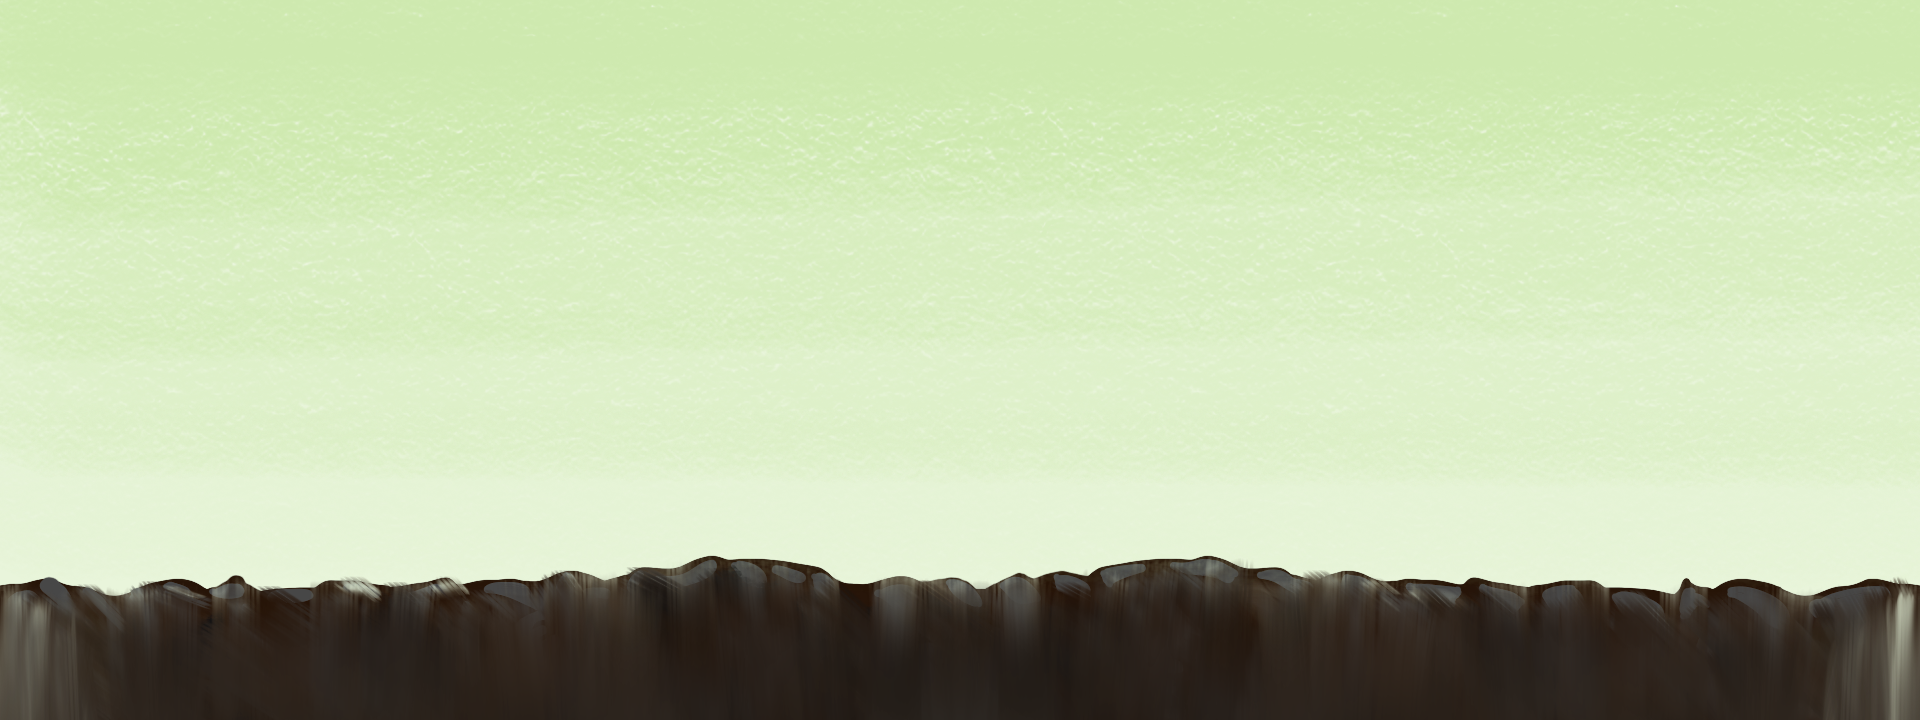
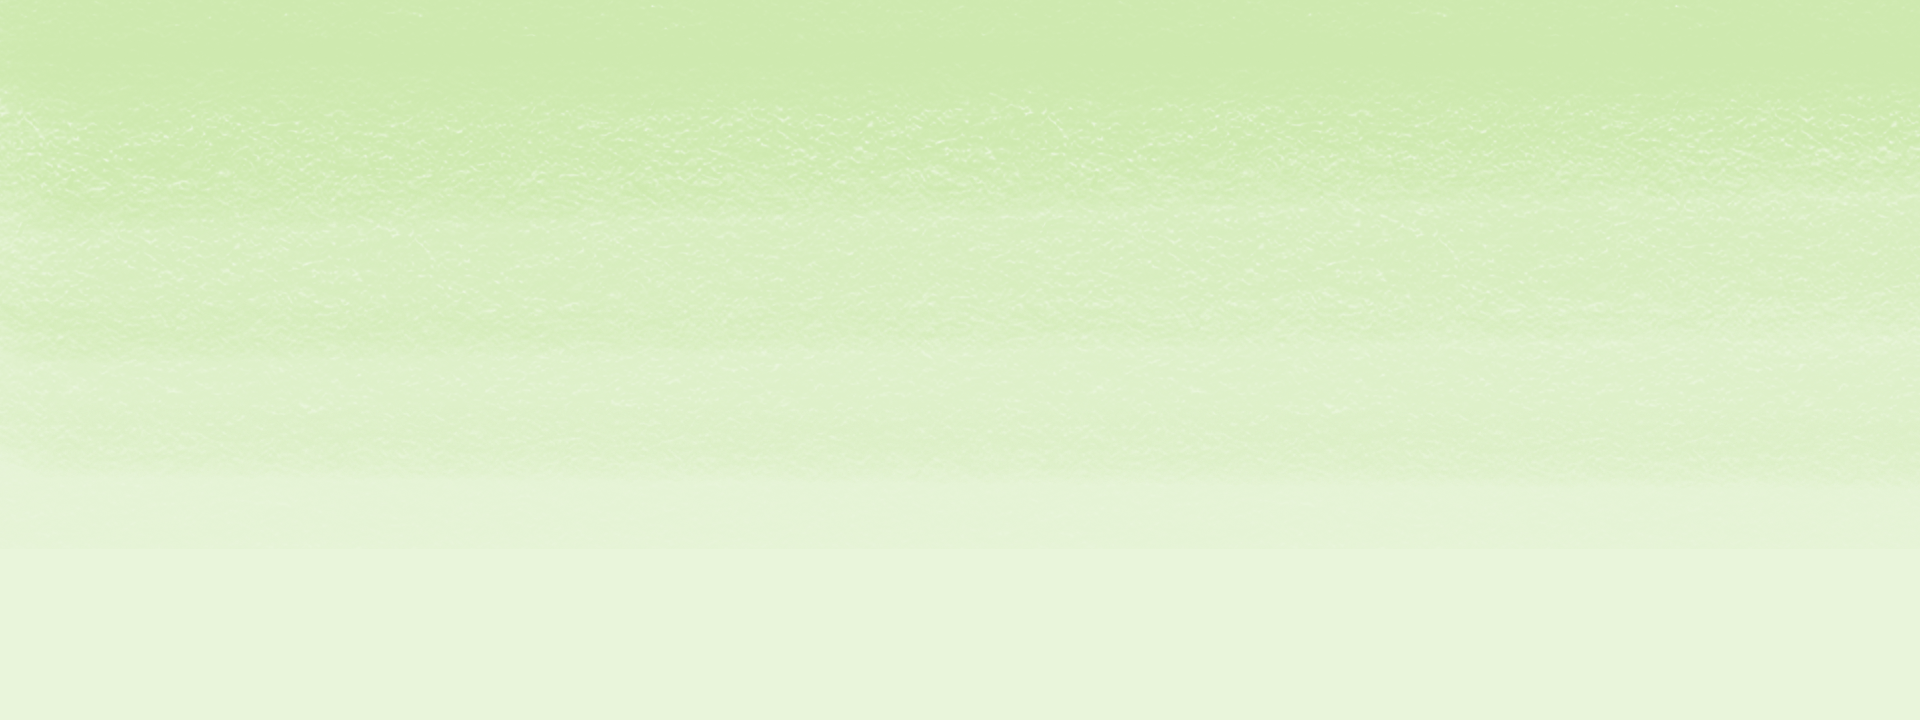
new sprite

Changed region(s): [[0.0, 0.7639, 1.0, 1.0]]

diff --git a/client/lib/game/DinoGame.js b/client/lib/game/DinoGame.js
@@ -41,9 +41,9 @@ export default class DinoGame extends GameRunner {
       cloudSpawnRate: 200, // fpa
       cloudSpeed: 2, // ppf
       dinoGravity: 2, // ppf
-      dinoGroundOffset: 160, // px
+      dinoGroundOffset: -40, // px
       dinoLegsRate: 6, // fpa
-      dinoLift: 35, // ppf
+      dinoLift: 34, // ppf
       bulletSpawnRate: 20, // fpa
       bulletSpeed: 10, // ppf
       itemSpawnRate: 200, // fpa
@@ -129,9 +129,9 @@ export default class DinoGame extends GameRunner {
     dino.lift = settings.dinoLift;
     dino.gravity = settings.dinoGravity;
     dino.x = 25;
-    dino.baseY = this.height - settings.dinoGroundOffset;
     this.state.dino = dino;
-    // this.state.groundY = this.height - sprites.ground.h / 2;
+    this.state.groundY = this.height - Math.min(sprites.ground.h / 2, this.height*0.2);
+    dino.baseY = this.state.groundY - settings.dinoGroundOffset;
   }
 
   onFrame() {
@@ -180,23 +180,16 @@ export default class DinoGame extends GameRunner {
       state.bullets.forEach((bullet) => {
         if (bullet.hits([state.obstacles[0]])) {
           //to-do
-          switch (state.obstacles[0].sprite) {
-            case "obstacle": {
-              state.obstacles[0].sprite = "obstacleHit";
-            }
+          state.obstacles[0].sprite = `${state.obstacles[0].sprite}Hit`;
+          // switch (state.obstacles[0].sprite) {
+          //   case "obstacleCode": {
+          //     state.obstacles[0].sprite = "obstacleCodeHit";
+          //   }
 
-            case "obstacleDouble": {
-              state.obstacles[0].sprite = "obstacleDoubleHit";
-            }
-
-            case "obstacleDoubleB": {
-              state.obstacles[0].sprite = "obstacleDoubleBHit";
-            }
-
-            case "obstacleTriple": {
-              state.obstacles[0].sprite = "obstacleTripleHit";
-            }
-          }
+          //   case "obstacleGate": {
+          //     state.obstacles[0].sprite = "obstacleGateHit";
+          //   }
+          // }
           setTimeout(() => {
             state.obstacles.shift();
           }, 120);
@@ -207,7 +200,8 @@ export default class DinoGame extends GameRunner {
         }
         if (bullet.hits([state.birds[0]])) {
           //to-do
-          state.obstacles[0].sprite = "birdHit";
+          state.birds[0].sprite = `${state.birds[0].sprite}Hit`;
+          // state.obstacles[0].sprite = "birdHit";
           //to-do
 
           setTimeout(() => {
@@ -419,24 +413,25 @@ export default class DinoGame extends GameRunner {
   }
 
   drawBackground() {
-    this.canvasCtx.fillStyle = "#f7f7f7";
-    this.canvasCtx.fillRect(0, 0, this.width, this.height);
+    // this.canvasCtx.fillStyle = "#f7f7f7";
+    // this.canvasCtx.fillRect(0, 0, this.width, this.height);
+    this.canvasCtx.drawImage(this.backgroundImage, 0, 0, this.width, this.height);
   }
 
   drawGround() {
     const { state } = this;
     const { bgSpeed } = state.settings;
-    // const groundImgWidth = sprites.ground.w / 2;
-    const groundImgWidth = 1920;
+    const groundImgWidth = sprites.ground.w / 2;
+    // const groundImgWidth = 1920;
 
-    // this.paintSprite("ground", state.groundX, state.groundY);
-    this.canvasCtx.drawImage(this.backgroundImage, state.groundX, state.groundY, 1920, this.height);
+    this.paintSprite("ground", state.groundX, state.groundY);
+    // this.canvasCtx.drawImage(this.backgroundImage, state.groundX, state.groundY, 1920, this.height);
     state.groundX -= bgSpeed * state.speedRatio;
 
     // append second image until first is fully translated
     if (state.groundX <= -groundImgWidth + this.width) {
-      // this.paintSprite("ground", state.groundX + groundImgWidth, state.groundY);
-      this.canvasCtx.drawImage(this.backgroundImage, state.groundX + groundImgWidth, state.groundY, 1920, this.height);
+      this.paintSprite("ground", state.groundX + groundImgWidth, state.groundY);
+      // this.canvasCtx.drawImage(this.backgroundImage, state.groundX + groundImgWidth, state.groundY, 1920, this.height);
 
       if (state.groundX <= -groundImgWidth) {
         state.groundX = -bgSpeed * state.speedRatio;
@@ -452,7 +447,7 @@ export default class DinoGame extends GameRunner {
       const newCloud = new Cloud();
       newCloud.speed = settings.bgSpeed;
       newCloud.x = this.width;
-      newCloud.y = randInteger(20, 200);
+      newCloud.y = randInteger(sprites.cloud.h+10, this.state.dinoGroundOffset - sprites.cloud.h - sprites.dinoDuckLeftLeg.h);
       clouds.push(newCloud);
     }
     this.paintInstances(clouds);
@@ -520,12 +515,12 @@ export default class DinoGame extends GameRunner {
         const newItem = new Item();
         newItem.speed = settings.bgSpeed;
         newItem.x = this.width;
-        newItem.y = this.height - newItem.height - state.settings.dinoGroundOffset - 100 * randInteger(0, 2);
+        newItem.y = state.dino.baseY - newItem.height - 100 * randInteger(0, 2);
         if (spawnedObstacle) {
-          newItem.y = this.height - newItem.height - state.settings.dinoGroundOffset - 250;
+          newItem.y = state.dino.baseY - newItem.height - 250;
         }
         if (spawnedBird) {
-          newItem.y = this.height - newItem.height - state.settings.dinoGroundOffset;
+          newItem.y = state.dino.baseY - newItem.height ;
         }
         items.push(newItem);
       }
@@ -547,7 +542,7 @@ export default class DinoGame extends GameRunner {
         const newObstacles = new Obstacle(this.spriteImageData);
         newObstacles.speed = settings.bgSpeed;
         newObstacles.x = this.width;
-        newObstacles.y = this.height - newObstacles.height - state.settings.dinoGroundOffset;
+        newObstacles.y = state.dino.baseY - newObstacles.height;
         obstacles.push(newObstacles);
       }
     }
@@ -566,16 +561,13 @@ export default class DinoGame extends GameRunner {
         spawned = true;
         const newBird = new Bird(this.spriteImageData);
         newBird.speed = settings.birdSpeed;
-        newBird.wingsRate = settings.birdWingsRate;
         newBird.x = this.width;
         // ensure birds are always at least 5px higher than a ducking dino
         newBird.y =
-          this.height -
+          dino.baseY -
           Bird.maxBirdHeight -
-          Bird.wingSpriteYShift -
           5 -
-          sprites.dinoDuckLeftLeg.h / 2 -
-          settings.dinoGroundOffset;
+          sprites.dinoDuckLeftLeg.h / 2
         birds.push(newBird);
       }
     }
@@ -594,7 +586,7 @@ export default class DinoGame extends GameRunner {
       const newFood = new Food(this.spriteImageData);
       newFood.speed = settings.bgSpeed;
       newFood.x = this.width;
-      newFood.y = this.height - newFood.height - state.settings.dinoGroundOffset + this.foodHeightFunc(this.frameCount);
+      newFood.y = state.dino.baseY - newFood.height + this.foodHeightFunc(this.frameCount);
       foods.push(newFood);
     }
     this.paintInstances(foods);

diff --git a/client/index.html b/client/index.html
@@ -13,13 +13,13 @@
             margin: 0;
             padding: 0;
         }
-        
+
         html,
         body {
             width: 100%;
             height: 100%;
         }
-        
+
         body {
             align-items: center;
             background-color: #f7f7f7;
@@ -48,7 +48,8 @@
         <div id="home-page-title">EE見鍾情</div>
         <div id=""></div>
         <input class="home-page-input" id="name-input" type="text" maxlength="18" placeholder="輸入遊戲名稱" />
-        <input class="home-page-input" id="student-id-input" type="text" maxlength="9" oninput="this.value = this.value.toUpperCase()" placeholder="輸入學號（才可顯示於排行榜上）" />
+        <input class="home-page-input" id="student-id-input" type="text" maxlength="9"
+            oninput="this.value = this.value.toUpperCase()" placeholder="輸入學號（才可顯示於排行榜上）" />
         <button id="start-button">Game Start!</button>
         <button class="leaderboard-button">排行榜</button>
         <button class="instruction-button">?</button>
@@ -114,7 +115,8 @@
                 <div id="prompt-page-title" class="page-title">Congratulation</div>
             </div>
             <div id="prompt-page-main">您已經進入前10名, 填寫學號以儲存您的分數</div>
-            <input class="prompt-page-input" id="prompt-student-id-input" type="text" maxlength="9" oninput="this.value = this.value.toUpperCase()" placeholder="輸入學號" />
+            <input class="prompt-page-input" id="prompt-student-id-input" type="text" maxlength="9"
+                oninput="this.value = this.value.toUpperCase()" placeholder="輸入學號" />
             <button id="prompt-reject-button" class="prompt-page-button">確定不填寫學號</button>
             <button id="prompt-confirm-button" class="prompt-page-button">送出</button>
         </div>
@@ -166,7 +168,8 @@
                         <div class="right">
                             <p class="gadget">Guitar</p>
                             <p class="functionality">
-                                Function: Music note attacks! Dino turns into a professional guitarist, shooting musical notes to destroy all obstacles.
+                                Function: Music note attacks! Dino turns into a professional guitarist, shooting musical
+                                notes to destroy all obstacles.
                             </p>
                         </div>
                     </div>
@@ -177,7 +180,8 @@
                         <div class="right">
                             <p class="gadget">Dance</p>
                             <p class="functionality">
-                                Function: Dance causes ADRENALINE RUSH. Dino turn on the jets and receive a speed boost for n seconds.
+                                Function: Dance causes ADRENALINE RUSH. Dino turn on the jets and receive a speed boost
+                                for n seconds.
                             </p>
                         </div>
                     </div>
@@ -188,7 +192,8 @@
                         <div class="right">
                             <p class="gadget">Band</p>
                             <p class="functionality">
-                                Function: Dino becomes invincible for a certain period of time and destroy everything in its path. The speed will also be faster.
+                                Function: Dino becomes invincible for a certain period of time and destroy everything in
+                                its path. The speed will also be faster.
                             </p>
                         </div>
                     </div>
@@ -210,7 +215,8 @@
                         <div class="right">
                             <p class="gadget">Week</p>
                             <p class="functionality">
-                                Function: NTUEE Week is fun! Dino gets extra points, unlike NTUEE students asking professor for grades
+                                Function: NTUEE Week is fun! Dino gets extra points, unlike NTUEE students asking
+                                professor for grades
                             </p>
                         </div>
                     </div>
@@ -218,6 +224,14 @@
             </div>
         </div>
     </div>
+
+    <script>
+        screen.orientation.lock('landscape');
+        console.log('lock');
+        screen.orientation.addEventListener("change", () => {
+            console.log(screen.orientation.type);
+        });
+    </script>
 </body>
 
 </html>

diff --git a/client/lib/sprites.js b/client/lib/sprites.js
@@ -1,44 +1,40 @@
 export default {
   // bird
-  birdUp: { h: 52, w: 84, x: 708, y: 31 },
-  birdDown: { h: 60, w: 84, x: 708, y: 85 },
+  birdCircuit: { h: 176, w: 181, x: 1740, y: 354 },
+  birdPaper: { h: 176, w: 182, x: 1376, y: 354 },
 
   //birdHit
-  birdHit: { h: 60, w: 84, x: 1590, y: 85 },
+  birdCircuitHit: { h: 176, w: 181, x: 1921, y: 354 },
+  birdPaperHit: { h: 176, w: 182, x: 1558, y: 354 },
 
   // obstacle
-  obstacle: { h: 123, w: 150, x: 164, y: 300 },
-  obstacleDouble: { h: 185, w: 152, x: 314, y: 300 },
-  obstacleDoubleB: { h: 125, w: 60, x: 466, y: 300 },
-  obstacleTriple: { h: 125, w: 60, x: 526, y: 300 },
+  obstacleGate: { h: 128, w: 168, x: 1036, y: 354 },
+  obstacleCode: { h: 128, w: 170, x: 1204, y: 354 },
 
   // obstacleHit
-  obstacleHit: { h: 123, w: 150, x: 164, y: 300 },
-  obstacleDoubleHit: { h: 185, w: 152, x: 314, y: 300 },
-  obstacleDoubleBHit: { h: 125, w: 60, x: 466, y: 300 },
-  obstacleTripleHit: { h: 125, w: 60, x: 526, y: 300 },
+  obstacleGateHit: { h: 128, w: 168, x: 1036, y: 482 },
+  obstacleCodeHit: { h: 128, w: 170, x: 1204, y: 482 },
 
   // dino
-  dinoLeftLeg: { h: 300, w: 203, x: 206, y: 0 },
-  dino: { h: 300, w: 206, x: 0, y: 0 },
-  dinoRightLeg: { h: 300, w: 205, x: 409, y: 0 },
-  dinoDuckLeftLeg: { h: 257, w: 218, x: 817, y: 0 },
-  dinoDuckRightLeg: { h: 257, w: 204, x: 1035, y: 0 },
-  dinoDisappear: { h: 300, w: 205, x: 1300, y: 0 },
+  dino: { h: 300, w: 206, x: 0, y: 354 },
+  dinoLeftLeg: { h: 300, w: 203, x: 206, y: 354 },
+  dinoRightLeg: { h: 300, w: 205, x: 409, y: 354 },
+  dinoDuckLeftLeg: { h: 240, w: 218, x: 614, y: 354 },
+  dinoDuckRightLeg: { h: 240, w: 204, x: 832, y: 354 },
+  dinoDisappear: { h: 1, w: 1, x: 0, y: 0 },
 
   // other
-  cloud: { h: 120, w: 242, x: 895, y: 456 },
-  ground: { h: 28, w: 2400, x: 0, y: 2 },
-  replayIcon: { h: 179, w: 178, x: 592, y: 300 },
+  cloud: { h: 120, w: 242, x: 3040, y: 354 },
+  ground: { h: 354, w: 4000, x: 0, y: 0 },
 
   // Items
-  band: { h: 192, w: 192, x: 0, y: 456 },
-  eater: { h: 155, w: 181, x: 192, y: 485 },
-  dance: { h: 161, w: 148, x: 373, y: 485 },
-  guitar: { h: 160, w: 155, x: 521, y: 485 },
-  week: { h: 93, w: 210, x: 681, y: 485 },
+  week: { h: 169, w: 180, x: 2102, y: 354 },
+  guitar: { h: 169, w: 169, x: 2273, y: 354 },
+  dance: { h: 169, w: 169, x: 2442, y: 354 },
+  band: { h: 169, w: 169, x: 2613, y: 354 },
+  eater: { h: 169, w: 181, x: 2782, y: 354 },
 
   // PowerUps
-  bullet: { h: 34, w: 101, x: 586, y:300 },
-  food: { h: 97, w: 97, x: 586, y: 337 },
+  bullet: { h: 94, w: 77, x: 2963, y: 355 },
+  food: { h: 108, w: 108, x: 3282, y: 354 },
 };

diff --git a/client/lib/actors/Bird.js b/client/lib/actors/Bird.js
@@ -1,49 +1,23 @@
 import sprites from '../sprites.js'
+import { randItem } from "../utils.js";
 import Actor from './Actor.js'
 
-export default class Bird extends Actor {
-  static maxBirdHeight = Math.max(sprites.birdUp.h, sprites.birdDown.h) / 2
+const VARIANTS = ["birdCircuit", "birdPaper"];
 
-  // pixels that are added/removed to `y` when switching between wings up and wings down
-  static wingSpriteYShift = 6
+export default class Bird extends Actor {
+  static maxBirdHeight = Math.max(sprites.birdCircuit.h, sprites.birdPaper.h) / 2
 
   constructor(imageData) {
     super(imageData)
     this.wingFrames = 0
-    this.wingDirection = 'Up'
-    this.sprite = `bird${this.wingDirection}`
+    this.sprite = randItem(VARIANTS);
     // these are dynamically set by the game
     this.x = null
     this.y = null
     this.speed = null
-    this.wingsRate = null
   }
 
   nextFrame(speedRatio) {
     this.x -= this.speed * speedRatio;
-    this.determineSprite()
-  }
-
-  determineSprite() {
-    const oldHeight = this.height
-
-    if (this.wingFrames >= this.wingsRate) {
-      this.wingDirection = this.wingDirection === 'Up' ? 'Down' : 'Up'
-      this.wingFrames = 0
-    }
-
-    this.sprite = `bird${this.wingDirection}`
-    this.wingFrames++
-
-    // if we're switching sprites, y needs to be
-    // updated for the height difference
-    if (this.height !== oldHeight) {
-      let adjustment = Bird.wingSpriteYShift
-      if (this.wingDirection === 'Up') {
-        adjustment *= -1
-      }
-
-      this.y += adjustment
-    }
   }
 }

diff --git a/client/lib/actors/Obstacle.js b/client/lib/actors/Obstacle.js
@@ -1,7 +1,7 @@
 import { randItem } from "../utils.js";
 import Actor from "./Actor.js";
 
-const VARIANTS = ["obstacle", "obstacleDouble", "obstacleDoubleB", "obstacleTriple"];
+const VARIANTS = ["obstacleGate", "obstacleCode"];
 
 export default class Obstacle extends Actor {
   constructor(imageData) {
